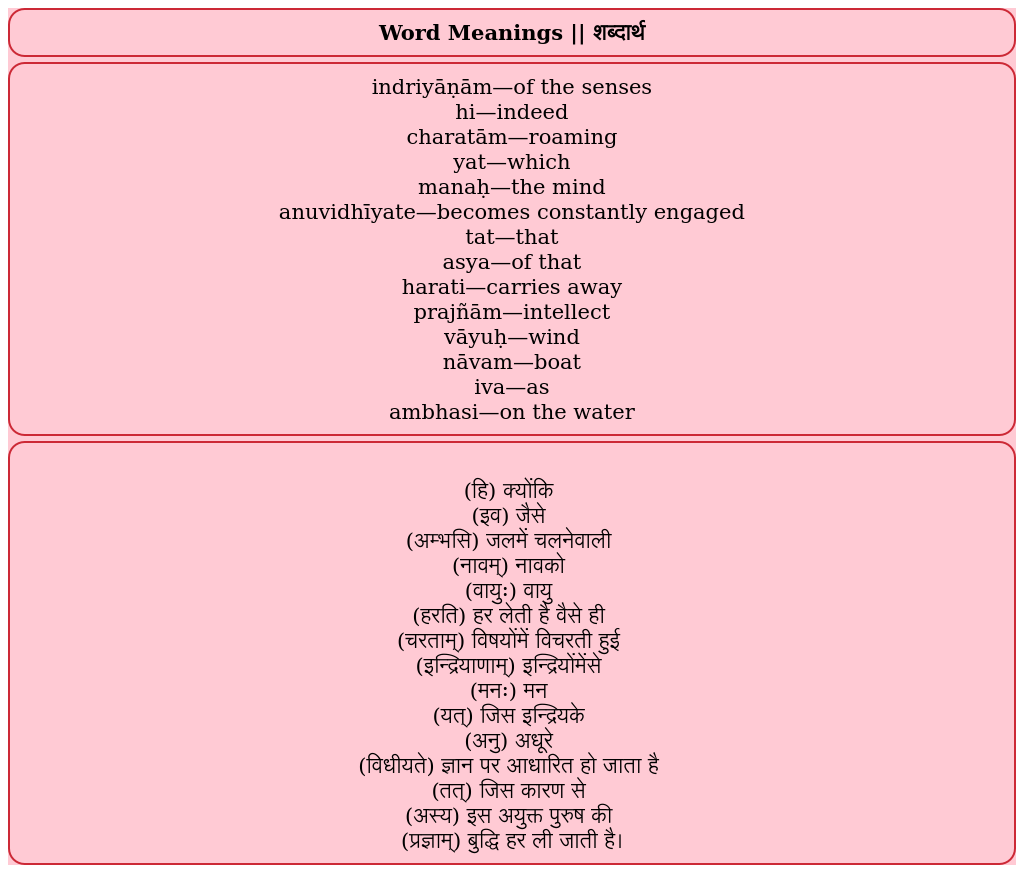
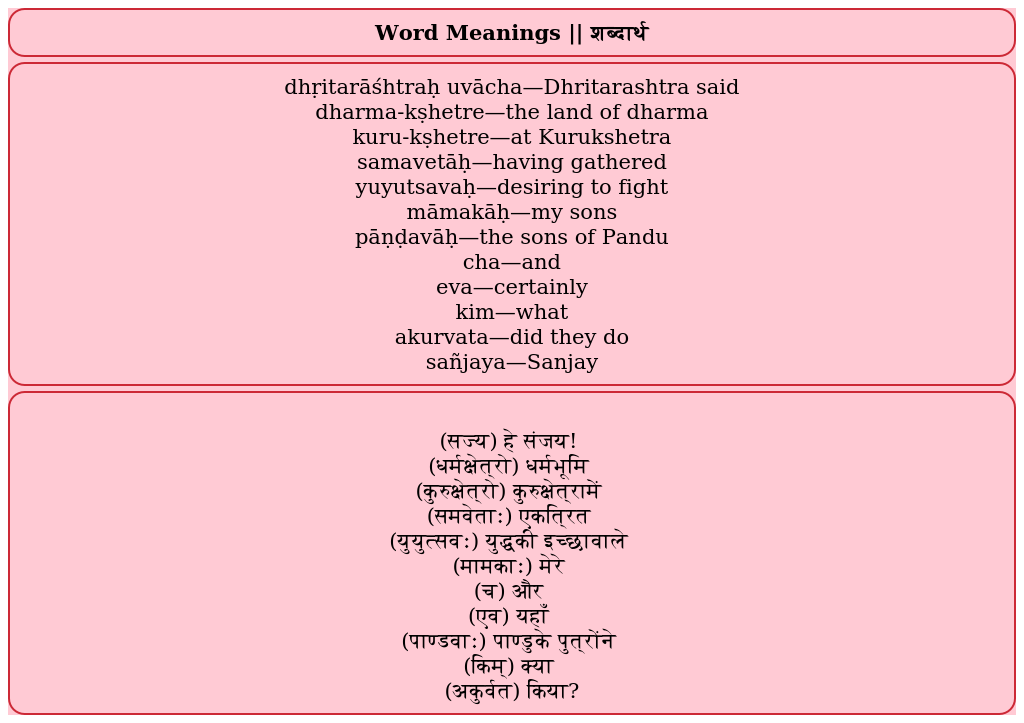
updated images

Changed region(s): [[0.0, 0.0, 1.0, 1.0]]

diff --git a/gita_bot/verse_html.html b/gita_bot/verse_html.html
@@ -57,7 +57,7 @@
 
                 * 
                 {
-                    background-color:#F4A261;
+                    background-color:#E9C46A;
 
                 }   
 
@@ -88,11 +88,11 @@
                 <div class="grid-container">
                     <div class="grid-title" style = "color: #e05330;">||<u>श्लोक</u>|| </div>                  
 
-                    <div class="grid-item sanskrit-text"> इन्द्रियाणां हि चरतां यन्मनोऽनुविधीयते |<br>तदस्य हरति प्रज्ञां वायुर्नावमिवाम्भसि ॥67॥                
+                    <div class="grid-item sanskrit-text"> धृतराष्ट्र उवाच |<br>धर्मक्षेत्रे कुरुक्षेत्रे समवेता युयुत्सवः |<br>मामकाः पाण्डवाश्चैव किमकुर्वत सञ्जय ॥1॥                
                     </div>
                     <hr>
 
-                    <div class="grid-item transliter"> indriyāṇāṁ hi charatāṁ yan mano ’nuvidhīyate<br>tadasya harati prajñāṁ vāyur nāvam ivāmbhasi
+                    <div class="grid-item transliter"> dhṛitarāśhtra uvācha<br>dharma-kṣhetre kuru-kṣhetre samavetā yuyutsavaḥ<br>māmakāḥ pāṇḍavāśhchaiva kimakurvata sañjaya
                     </div>
                 </div>
 
@@ -107,16 +107,16 @@
                     </div>
 
                     <div class="grid-item" style="font-size: 18px;">
-                        <div style="color: #dc2f02;"> <b> English</b></div> For, the mind which follows in the wake of the wandering senses, that (mind) carries away his wisdom like the mind (diverting) a boat on the waters.                    
+                        <div style="color: #dc2f02;"> <b> English</b></div> Dhritarastra said: O Sanjaya, what did my sons and the sons of Pandu actually do when, eager for battle, they gathered together on the holy field of Kuruksetra?                    
                     </div>
                     <hr>
                     <div class="grid-item" style="font-size: 18px;">
-                        <div style="color: #dc2f02;"> <b> हिंदी</b></div> क्योंकि जैसे जल में चलने वाली नाव को वायु हर लेती है, वैसे ही विषयों में विचरती हुई इन्द्रियों में से मन जिस इन्द्रिय के साथ रहता है, वह एक ही इन्द्रिय इस अयुक्त पुरुष की बुद्धि को हर लेती है।                    
+                        <div style="color: #dc2f02;"> <b> हिंदी</b></div> धृतराष्ट्र बोले- हे संजय! धर्मभूमि कुरुक्षेत्र में एकत्रित, युद्ध की इच्छावाले मेरे और पाण्डु के पुत्रों ने क्या किया?                    
                     </div>                   
 
                 </div>
                 <div style="text-align: center;">
-                    <img src='images/k5.svg' alt="" style="height: 50px; width: 50px;">
+                    <img src='./images/k2.svg' alt="" style="height: 50px; width: 50px;">
                 </div>
             </section>
 

diff --git a/gita_bot/word_mean.html b/gita_bot/word_mean.html
@@ -34,9 +34,9 @@
         <div class = 'grid-container'>
             <div class="grid-item" style="grid-column-end:3; grid-column-start: 1;"> <b> Word Meanings || शब्दार्थ </b> </div>
             <span>
-                <div class="grid-item">indriyāṇām—of the senses<br>hi—indeed<br>charatām—roaming<br>yat—which<br>manaḥ—the mind<br>anuvidhīyate—becomes constantly engaged<br>tat—that<br>asya—of that<br>harati—carries away<br>prajñām—intellect<br>vāyuḥ—wind<br>nāvam—boat<br>iva—as<br>ambhasi—on the water
+                <div class="grid-item">dhṛitarāśhtraḥ uvācha—Dhritarashtra said<br>dharma-kṣhetre—the land of dharma<br>kuru-kṣhetre—at Kurukshetra<br>samavetāḥ—having gathered<br>yuyutsavaḥ—desiring to fight<br>māmakāḥ—my sons<br>pāṇḍavāḥ—the sons of Pandu<br>cha—and<br>eva—certainly<br>kim—what<br>akurvata—did they do<br>sañjaya—Sanjay
                 </div>
-                <div class="grid-item"> <br>(हि) क्योंकि <br>(इव) जैसे <br>(अम्भसि) जलमें चलनेवाली <br>(नावम्) नावको <br>(वायुः) वायु <br>(हरति) हर लेती है वैसे ही <br>(चरताम्) विषयोंमें विचरती हुई <br>(इन्द्रियाणाम्) इन्द्रियोंमेंसे <br>(मनः) मन <br>(यत्) जिस इन्द्रियके <br>(अनु) अधूरे <br>(विधीयते) ज्ञान पर आधारित हो जाता है <br>(तत्) जिस कारण से <br>(अस्य) इस अयुक्त पुरुष की <br>(प्रज्ञाम्) बुद्धि हर ली जाती है।
+                <div class="grid-item"> <br>(सज्य) हे संजय! <br>(धर्मक्षेत्रो) धर्मभूमि <br>(कुरुक्षेत्रो) कुरुक्षेत्रामें <br>(समवेताः) एकत्रित <br>(युयुत्सवः) युद्धकी इच्छावाले <br>(मामकाः) मेरे <br>(च) और <br>(एव) यहाँ <br>(पाण्डवाः) पाण्डुके पुत्रोंने <br>(किम्) क्या <br>(अकुर्वत) किया?
                 </div>
             </span>            
         </div>        

diff --git a/jokes_bot.js b/jokes_bot.js
@@ -13,7 +13,7 @@ var client = new twit({
 axios("https://official-joke-api.appspot.com/random_joke").then(Response => {
 	return [Response.data.type, Response.data.setup, Response.data.punchline];
 }).then(([type,setup, punch]) => {
-	client.post('statuses/update', {status:  'Joke Bot Tweets.\nHere is a(n) '+ `${type}` +' joke.\n' + `${setup}\n\n\n${punch}` + '#joke #fun #follow 😁😆'}, function(error, tweet, response){
+	client.post('statuses/update', {status:  'Joke Bot Tweets.\nHere is a(n) '+ `${type}` +' joke.\n' + `${setup}\n\n\n${punch}` + '#joke #fun #covid #vaccine #lockdown 😁😆'}, function(error, tweet, response){
 		if(!error){
 			console.log(tweet);
 		}
